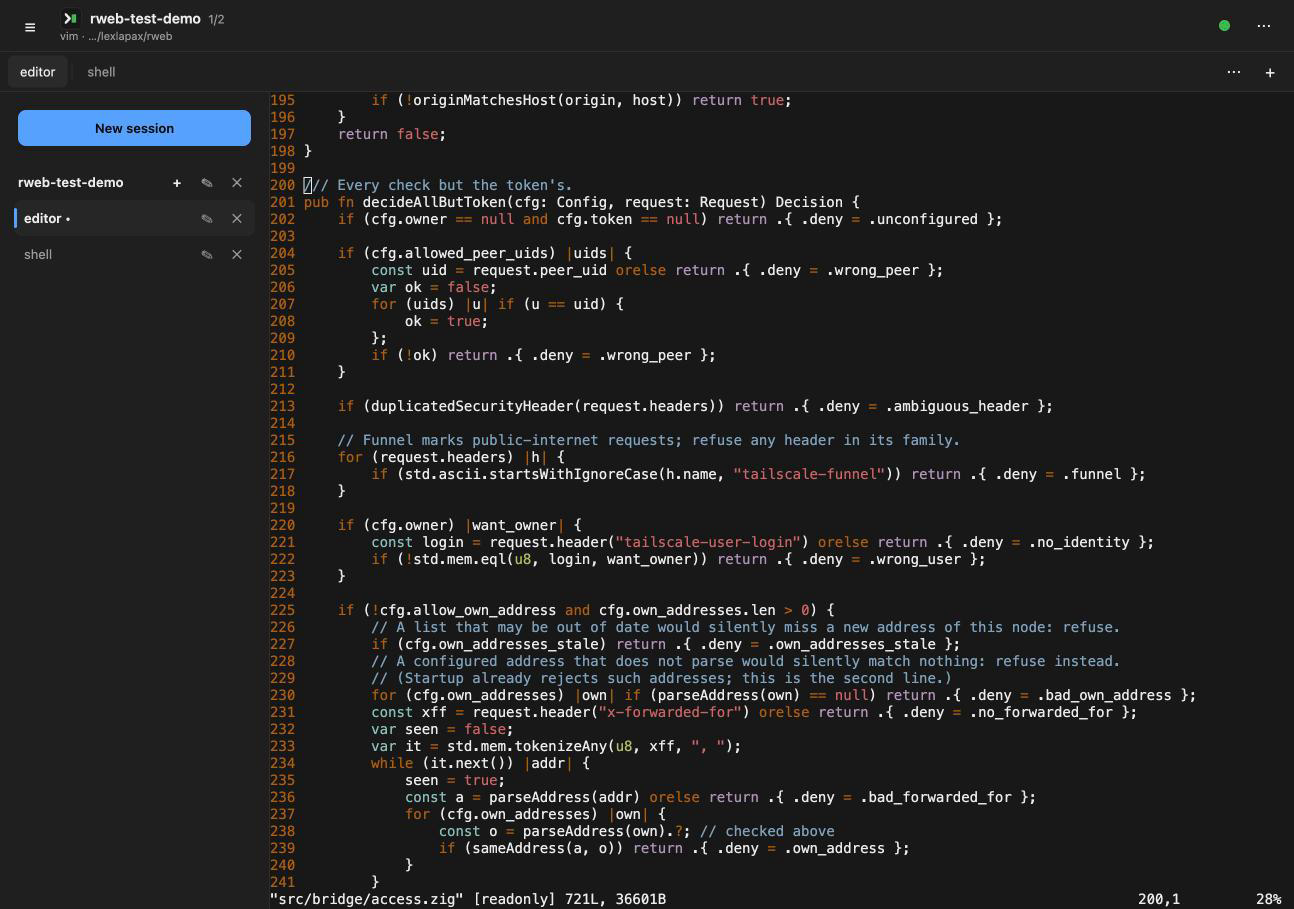
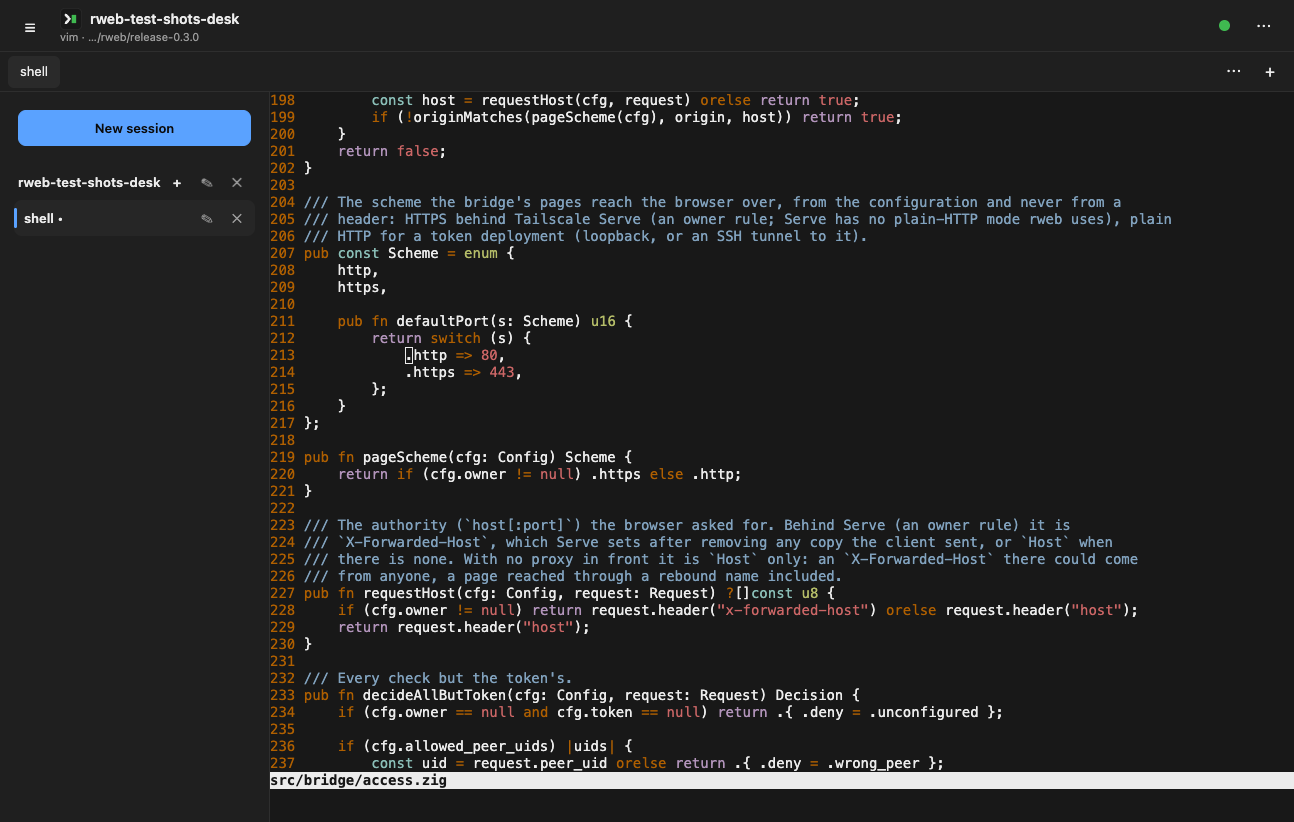
docs: every current document checked against the code for 0.3.0: install methods, the menu, the protocol lists, troubleshooting, the bug form; new screenshots and one of the menu

diff --git a/docs/user-guide.md b/docs/user-guide.md
@@ -36,7 +36,8 @@ brew install rweb
 ```
 
 Then run `rweb tailscale` once in a terminal (section 5 or 6), and `brew services start rweb` keeps it
-running at login. The formula installs the release archive below, checked by its SHA-256.
+running at login (on Linux, also `sudo loginctl enable-linger "$USER"` to start it at boot). The formula
+installs the release archive below, checked by its SHA-256.
 
 **Arch Linux**, from the AUR: the package `rweb-bin`, with any AUR helper
 (`yay -S rweb-bin`). It installs `/usr/bin/rweb` and a systemd user unit, `rweb.service`, that runs
@@ -152,7 +153,11 @@ It prints the `sudo tailscale serve …` line to run once and the address to ope
 terminal, then open the address on your phone or laptop (from **another device**: a request from the Rex
 machine itself is refused, because any program there could make it). Stop rweb with Ctrl-C.
 
-To keep it running, a systemd user service, `~/.config/systemd/user/rweb.service`:
+To keep it running, a systemd user service. **From the AUR** it is installed already
+(`/usr/lib/systemd/user/rweb.service`, running `/usr/bin/rweb tailscale`): skip the file and run the
+commands below it. **With Homebrew**, `brew services start rweb` takes its place (and the `loginctl` line
+below still applies). **From the archive**, copy `contrib/systemd/rweb.service` from it to
+`~/.config/systemd/user/rweb.service`; it is this file:
 
 ```ini
 [Unit]
@@ -213,8 +218,10 @@ itself is never printed) and the address to open. Run that line in another termi
 request from the Rex machine itself is refused, because any program there could make it. Stop rweb with
 Ctrl-C. `--port N` chooses another loopback port.
 
-To keep it running, a LaunchAgent, `~/Library/LaunchAgents/local.rweb.plist` (replace `YOU` with your
-user name):
+To keep it running: **with Homebrew**, `brew services start rweb` (its log is
+`$(brew --prefix)/var/log/rweb.log`, where the Serve line and the address appear). **From the archive**, a LaunchAgent: copy
+`contrib/launchd/local.rweb.plist` from it to `~/Library/LaunchAgents/local.rweb.plist` and replace `YOU`
+with your user name. It is this file:
 
 ```xml
 <?xml version="1.0" encoding="UTF-8"?>
@@ -278,7 +285,9 @@ holds the port, ssh then stops with an error instead of running without a tunnel
 prints another laptop port. On a phone, use an SSH app that can forward a local port to a remote unix
 socket, and keep it open while you use the page.
 
-To keep rweb running, use the service file from section 5 or 6 with `ssh` in place of `tailscale`.
+To keep rweb running, use the service file from section 5 or 6 with `ssh` in place of `tailscale`. The
+Homebrew and AUR services run `rweb tailscale`; for a tunnel, write that file yourself (on Linux,
+`systemctl --user edit --full rweb` makes a copy of the AUR unit to change).
 
 **Signing in.** Open `http://127.0.0.1:7700/` (use `127.0.0.1`, not `localhost`). The page shows a token
 form. On the Rex machine, `cat` the token file rweb named at startup (`~/.config/rweb/token` unless you
@@ -343,12 +352,15 @@ each has its own token and its own sign-in, and each `/s/<id>/` address is as se
 - **Size.** Rex owns the terminal's size, and every client shares it. On a touch screen the page asks Rex
   to fit the terminal to your screen ("Fit Rex to this screen" in the ⋯ menu); elsewhere it shrinks the
   text to fit instead. **+/−** in the ⋯ menu changes the text size.
-- **The ⋯ menu** (top right): text size; View only (no typing from this browser); Fit Rex to this screen;
-  Fit terminal to this window; Load all scrollback; Copy text (a view for selecting and copying lines);
-  Text copied in the terminal (what a program put on the clipboard); Paste; Clear screen; Reset terminal;
-  Download a file and Upload files (when enabled); the terminal engine (wterm, or the older xterm.js);
-  Touch diagnostics; Reconnect; About rweb (rweb's page on GitHub, in a new tab, as the logo at the top
-  left also opens; no address of your page is sent with it). The logo turns slowly while the terminal
+- **The ⋯ menu** (top right): Copy text (a view for selecting and copying lines); Text copied in the
+  terminal (what a program put on the clipboard); Paste; Download a file and Upload files (when enabled);
+  Clear screen; Reset terminal; text size **−/+**; View only (no typing from this browser); Fit Rex to this
+  screen; Use Rex colours (with wterm, Rex's colour theme in place of the page's own; xterm.js always uses Rex's); Fit terminal to this window;
+  Load all scrollback; Touch diagnostics; the terminal engine (wterm, or the older xterm.js); Reconnect;
+  "rweb X.Y.Z is available" when a newer release is out (the ⋯ button then has a dot; the item opens the
+  release notes, section 11); About rweb (rweb's page on GitHub, in a new tab, as the logo at the top
+  left also opens; no address of your page is sent with it).
+  [The menu in a desktop browser](../assets/screenshots/menu.png). The logo turns slowly while the terminal
   on screen is printing and comes to rest upright a moment after it stops; it stays still if your
   device asks for reduced motion.
 - **Pasting.** A paste reaches the program as a paste, without escape characters, so pasted text cannot
@@ -385,12 +397,19 @@ read; it follows no redirect). When a newer version is out it says so once in it
 item, "rweb X.Y.Z is available", that opens the release notes, and `rweb doctor` reports it with the
 upgrade command for how rweb was installed. It never downloads or installs anything. What GitHub learns
 from it: this machine's address, that it runs rweb, and which version. To turn it off, start rweb with
-`--no-update-check` (add it to `ExecStart`, the LaunchAgent's `ProgramArguments`, or, with Homebrew, run
-rweb from your own service instead of `brew services`).
+`--no-update-check`: add it to `ExecStart` or the LaunchAgent's `ProgramArguments`; for the AUR unit,
+`systemctl --user edit --full rweb`; with Homebrew, run rweb from your own service (section 5 or 6)
+instead of `brew services`.
 
-Read [CHANGELOG.md](../CHANGELOG.md), install the new archive over `~/.local/bin/rweb` (keep the old binary
-if you may want it back), then restart rweb: `systemctl --user restart rweb` on Linux,
-`launchctl kickstart -k "gui/$(id -u)/local.rweb"` on macOS. Restarting rweb does not touch your Rex
+To upgrade, read [CHANGELOG.md](../CHANGELOG.md), then:
+
+- **Homebrew:** `brew upgrade rweb && brew services restart rweb`.
+- **AUR:** upgrade `rweb-bin` with your helper (`yay -Syu rweb-bin`), then `systemctl --user restart rweb`.
+- **Archive:** install the new archive over `~/.local/bin/rweb` as in section 2, signature first (keep the
+  old binary if you may want it back), then `systemctl --user restart rweb` on Linux or
+  `launchctl kickstart -k "gui/$(id -u)/local.rweb"` on macOS.
+
+`rweb doctor` names the command for how this rweb was installed. Restarting rweb does not touch your Rex
 sessions; pages behind Tailscale reconnect by themselves, and a page through an SSH tunnel waits for a
 tap on Reconnect. The Serve entry, the secret and the token stay as they are.
 
@@ -479,7 +498,8 @@ rweb doctor: checking rweb tailscale (rweb 0.3.0)
 rweb doctor: 5 passed, 0 notes, 1 failed
 ```
 
-Logs: `journalctl --user -u rweb -n 50` (Linux service), `~/Library/Logs/rweb.log` (macOS LaunchAgent).
+Logs: `journalctl --user -u rweb -n 50` (Linux service, the AUR's included), `~/Library/Logs/rweb.log`
+(macOS LaunchAgent), `$(brew --prefix)/var/log/rweb.log` (`brew services`, on macOS and Linux).
 When rweb refuses to start, its message names what is wrong and, for a file or folder, ends with a
 `Fix:` line holding the command or change that puts it right. Run it and start rweb again; a second
 message means a second thing to fix.
@@ -515,6 +535,10 @@ message means a second thing to fix.
 | The browser cannot connect at all | Tailscale: `tailscale serve status` on the Rex machine. SSH: is the tunnel still open? |
 | Sessions do not appear | rweb cannot reach Rex, or Rex refused its API revision: check the log and `rweb --version`. |
 | Typing does nothing | View only is on (⋯ menu), or rweb runs with `--observe-only`. |
+| The page loads but never connects, and the log says `refused: bad Origin` | The page was opened at another address than the one rweb serves: over `http://` behind Tailscale, on another port, or through another name. Open the `https://` address `rweb tailscale` printed (or, for a tunnel, the `http://127.0.0.1:<port>/` one). |
+| A dot on the ⋯ button | A newer rweb is released: the ⋯ menu's "rweb X.Y.Z is available" opens its notes; section 11 says how to upgrade. |
+| `rweb doctor` notes `could not ask GitHub for rweb's latest release` | This machine could not reach `api.github.com` (offline, a proxy, a firewall). A note, not a failure; `--no-update-check` leaves the check out. |
+| `brew install rweb` will not load the formula | Homebrew loads a third-party tap's formulae only once the tap is trusted: `brew trust lexlapax/rweb`, then install again. |
 
 **Files and folders rweb checks.** The backend secret, the token file, the upload folder, the unix
 socket's folder and the `tailscale` program must be such that no other account could change them. The

diff --git a/README.md b/README.md
@@ -13,7 +13,7 @@ prompt that is waiting, run the quick command, and go. Not affiliated with Super
 <p align="center">
   <img src="assets/screenshots/desktop.png" alt="rweb in a desktop browser: the session list on the left and a terminal running vim" width="600">
   &nbsp;
-  <img src="assets/screenshots/phone.png" alt="rweb on a phone: a terminal with git log and ls output, and the key bar above the browser's address bar" width="200">
+  <img src="assets/screenshots/phone.png" alt="rweb on a phone: a terminal showing rweb --version and git log, and the key bar above the browser's address bar" width="200">
 </p>
 
 **Current release: 0.3.0** (2026-11-27). It installs from Homebrew and the AUR, checks a setup with
@@ -40,10 +40,13 @@ back at a real keyboard you use Rex itself.
 - Shows what each terminal is doing at a glance: the running program, its folder, listening ports and,
   where a program reports it, its status.
 - Phone and tablet friendly: key bar (Enter, Esc, Tab, ^C, Ctrl, Alt, Shift, arrows and more), touch
-  scrolling (also inside full-screen programs), a Copy view, a view-only switch.
+  scrolling (also inside full-screen programs), a Copy view, a view-only switch. The ⋯ menu holds the rest
+  ([picture](assets/screenshots/menu.png)).
 - Optional file transfer: download a file from the machine, upload into one folder (off by default).
 - Runs only for you: your own Tailscale login (every device you signed in to Tailscale as you), or a
   token. One rweb per machine: each machine with Rex runs its own rweb, at its own address.
+- Easy to keep right: `rweb doctor` checks a setup and says what to fix, and rweb tells you (in its log
+  and on the page) when a newer release is out. Install from Homebrew, the AUR or a signed archive.
 
 ## How it works
 
@@ -118,7 +121,7 @@ starting rweb at boot or login, several machines, using the page, upgrading and 
 rweb can do anything you can do in Rex, so it trusts no one but you. It listens only on a unix socket
 or on loopback, never on the network. Behind Tailscale it accepts only your Tailscale login and refuses
 requests from the public internet (Funnel), from the machine itself, for another host name, or a
-WebSocket opened by another site; "your login" covers every device you sign in to Tailscale as you, so keep
+WebSocket or upload from any page but its own (another site, a plain-HTTP page, another port); "your login" covers every device you sign in to Tailscale as you, so keep
 it on devices only you use. Behind an SSH tunnel it requires a long token and listens on a unix socket in
 a private folder, so no other account can take its place while it is down; the tunnel's local end is plain
 HTTP on loopback, which cannot prove who is answering, so use it only on devices nobody else uses. It never
@@ -131,7 +134,7 @@ change, and it bounds what every browser and Rex can make it hold in memory. Des
 [docs/security-hardening-2026-11-23.md](docs/security-hardening-2026-11-23.md) (in the source repository).
 
 **How it was reviewed.** Before its first release, rweb went through a security review of its design
-and then six rounds of review on its release candidate. Each round had three independent parts: an
+and then six rounds of review on its release candidate, and a seventh before 0.3.0. Each round had three independent parts: an
 external static security scan of the whole repository; a release-readiness review (builds, the test
 suite, the release archives, the docs against the code); and an internal adversarial review in several
 parts, each reviewer reading the code without the others' conclusions. In the first four rounds the
@@ -179,7 +182,7 @@ tools/release.sh [COMMIT]             # release archives: one commit's clean exp
 
 | | |
 | --- | --- |
-| [User guide](docs/user-guide.md) | Tailscale or SSH setup, run at boot, several machines, using the page, upgrade, troubleshooting |
+| [User guide](docs/user-guide.md) | Install (Homebrew, AUR, archive), Tailscale or SSH setup, run at boot, several machines, using the page, upgrade, troubleshooting with `rweb doctor`, every option |
 | [Architecture](docs/architecture.md) | Components, diagrams, data and input paths, access checks, source layout |
 | [Changelog](CHANGELOG.md) | What changed in each version |
 | [Licence](LICENSE) | MIT |
@@ -229,5 +232,6 @@ which it is built. The software it contains or serves keeps its own licences:
 
 rweb is in daily use on Linux and macOS. Rex is a preview: rweb pins the Rex API revisions it speaks
 (see `rweb --version`; 0.3.0 speaks 18 to 24, Rex 0.1.0-preview.21 to preview.25) and is tested against
-each Rex update. Release archives: macOS on Apple silicon,
-and Linux x86-64 (static, any distribution). Windows support will come later.
+each Rex update. Release archives, signed: macOS on Apple silicon,
+and Linux x86-64 (static, any distribution); the same through Homebrew (both) and the AUR (Arch Linux).
+Windows support will come later.

diff --git a/docs/architecture.md b/docs/architecture.md
@@ -45,6 +45,7 @@ flowchart TB
     HUB["hub.zig<br/>session tree, open terminals, viewers"]
     PAGE["assets.zig + web/<br/>the page, built in"]
     XF["xfer.zig<br/>file transfer (optional)"]
+    UPD["update.zig<br/>daily release check (optional)"]
     subgraph LIB["src/rex: Rex client library"]
       CTL["control.zig<br/>hello, calls, events, reconnect"]
       API["api.zig<br/>typed calls"]
@@ -58,6 +59,8 @@ flowchart TB
   SRV --> PAGE
   SRV <--> HUB
   SRV --> XF
+  UPD -- "newer release" --> HUB
+  UPD -- "HTTPS, once a day" --> GH["GitHub's latest-release API"]
   HUB --> API --> CTL
   HUB --> DATA --> MIR
   HUB --> IN --> CTL
@@ -271,9 +274,11 @@ mouse-wheel reports (or ↑/↓ keys if the program did not ask for the mouse).
 WebSocket at `/ws`. JSON text frames carry commands and notices; binary frames carry terminal output.
 Browser to rweb: `tree`, `open`, `close_view`, `in`, `key`, `paste`, `fit`, `redraw`, `more_history`,
 `text`, `info`, `clip`, `observe`, `new_session`, `new_terminal`, `rename_session`, `rename_block`,
-`close_block`, `destroy_session`, `term_action`, transfer requests, `ping`. rweb to browser: `tree`,
-`opened`, `size`, `theme`, `exited`, `closed`, `mode`, `info`, `notice`, `error`, `pong`. Every message
-is bounded and validated; the full list is at the top of `src/bridge/protocol.zig`.
+`close_block`, `destroy_session`, `term_action`, transfer requests (`ls`, `dl`, `ul`), `ping`, and `dbg`
+(keyboard diagnostics, logged only with `--debug-input`). rweb to browser: `tree`, `opened`, `theme`, `exited`, `closed`, `mode` (what
+this page may do, and `update`, a newer release), `rex` (Rex up or down), `info`, `text`, `clip`, `ls`,
+`xfer`, `notice`, `error`, `pong`; a resize reaches the page as a fresh redraw. Every message is bounded
+and validated; the full list is at the top of `src/bridge/protocol.zig`.
 
 ## Source layout
 
@@ -285,8 +290,8 @@ is bounded and validated; the full list is at the top of `src/bridge/protocol.zi
 | `src/fuzz.zig` | Fuzz targets for every parser that reads outside bytes (`zig build fuzz --fuzz`) |
 | `tests/web/` | Tests for the page's logic (`zig build web-test`) |
 | `assets/logo/` | The logo's SVG sources, the social preview and `build.sh`, which exports the rasters (the page's icons are in `src/bridge/web/icons/`) |
-| `assets/screenshots/` | The README's screenshots (also in the release archives) |
-| `tools/` | `dist.sh` and `release.sh` (release archives, signed; `release-base.test.sh` checks its folder rules; `release-signers` holds the release key), `packaging.sh` (the Homebrew formula and AUR package from a release), `vendor/` (rebuilds the vendored browser code), `notices.py` (third-party notices) |
+| `assets/screenshots/` | The README's and the user guide's screenshots (also in the release archives) |
+| `tools/` | `dist.sh` and `release.sh` (release archives, signed; `release-base.test.sh` checks its folder rules; `release-signers` holds the release key), `packaging.sh` (the Homebrew formula and AUR package from a release), `vendor/` (rebuilds the vendored browser code), `assetgen.zig` (the page's table, ETags and gzip bodies, run by the build), `notices.py` (third-party notices; `licenses/` holds licence texts a package does not ship) |
 | `packaging/`, `contrib/` | The Homebrew formula and AUR templates; the systemd unit and LaunchAgent shipped in the archive |
 
 ## Pinned dependencies
@@ -296,7 +301,7 @@ is bounded and validated; the full list is at the top of `src/bridge/protocol.zi
 | Zig | 0.17.1 | Builds everything, including Ghostty's C++ |
 | libghostty-vt | Ghostty tag `vt-1.0.1` (by hash in `build.zig.zon`) | Decodes Rex's snapshot format; rweb refuses an unknown snapshot version |
 | Rex API | revisions 18–24 (Rex 0.1.0-preview.25 speaks 0–24) | Rex refuses clients outside its supported range |
-| wterm, xterm.js | 0.6.0, 6.0.0 (checksums in `vendor/SHA256SUMS`, checked by a test) | The browser terminals |
+| wterm, xterm.js | wterm 0.6.0, xterm.js 6.0.0 with `@xterm/addon-fit` 0.11.0 (checksums in `vendor/SHA256SUMS`, checked by a test; rebuilt byte for byte from npm by `tools/vendor/rebuild.sh`) | The browser terminals |
 
 ## Further reading (in the source repository)
 
@@ -305,3 +310,6 @@ is bounded and validated; the full list is at the top of `src/bridge/protocol.zi
 - [design-research.md](design-research.md), [rex-web-research.md](rex-web-research.md): the evidence behind the design.
 - [security-hardening-2026-11-23.md](security-hardening-2026-11-23.md): the security review and fixes.
 - [file-transfer.md](file-transfer.md): file transfer design and limits.
+- [vendored-browser-code.md](vendored-browser-code.md): where each vendored browser file comes from.
+- [The security review rounds](README.md), the latest
+  [round 7](security-review-2026-11-27-round7.md).

diff --git a/docs/README.md b/docs/README.md
@@ -2,8 +2,9 @@
 
 ## Using rweb
 
-- [User guide](user-guide.md): install (an archive, Homebrew or the AUR, with the signature checked); reach it through Tailscale or an SSH tunnel; run it at boot or
-  login on Linux and macOS; several machines; using the page; file transfer; upgrade, stop or remove;
+- [User guide](user-guide.md): install (an archive with its signature checked, Homebrew or the AUR); reach
+  it through Tailscale or an SSH tunnel; run it at boot or login on Linux and macOS; several machines;
+  using the page; file transfer; knowing when to upgrade, upgrading, stopping or removing it;
   troubleshooting with `rweb doctor`; every option.
 - [Changelog](../CHANGELOG.md): what changed in each version.
 - [Licence](../LICENSE): MIT.
@@ -16,11 +17,15 @@
 - [Architecture](architecture.md): components, diagrams, request checks, data and input paths, the
   browser protocol, source layout, pinned dependencies.
 - [File transfer](file-transfer.md): design, limits and threat model of the optional file transfer.
+- [Vendored browser code](vendored-browser-code.md): where each vendored file comes from and how
+  `tools/vendor/rebuild.sh` rebuilds them byte for byte.
+- [Packaging](../packaging/README.md): the Homebrew tap and the AUR package, and how each release
+  updates them.
 
 ## How it was reviewed
 
-Before the first release: a security review of the design, then six rounds on the release candidate,
-each with an external static security scan, a release-readiness review and an internal adversarial
+Before the first release: a security review of the design, then six rounds on the release candidate;
+a seventh before 0.3.0. Each round had an external static security scan, a release-readiness review and an internal adversarial
 review in several parts. Every finding was checked against the code, and every fix has a test. Before
 each release the candidate is run live on macOS and Linux and tested from the simulators and a phone;
 the round's document records those runs.
@@ -44,10 +49,6 @@ the round's document records those runs.
   Origin compared on scheme and port, redirects refused.
 - [Zig idiom audit](zig-idiom-audit-2026-11-26.md): the code against Zig's own practice, a 38-item
   checklist, and Phase B, done in 0.2.0 and after.
-- [Vendored browser code](vendored-browser-code.md): where each vendored file comes from and how
-  `tools/vendor/rebuild.sh` rebuilds them byte for byte.
-- [Packaging](../packaging/README.md): the Homebrew tap and the AUR package, and how each release
-  updates them.
 
 ## Why it is built this way
 

diff --git a/assets/screenshots/README.md b/assets/screenshots/README.md
@@ -1,14 +1,17 @@
 # Screenshots
 
-Shown in the top-level README.
+Shown in the top-level README and the user guide, and shipped in the release archives.
 
-- `desktop.png`: desktop Chrome, a terminal running vim on `src/bridge/access.zig` (1294 × 909, the
-  page area only, so no address bar).
-- `phone.png`: Mobile Safari on an iPhone simulator, a terminal with `git log` and `ls`, the key bar
-  at the bottom (1206 × 2622). The address in Safari's bar is blurred.
+- `desktop.png`: a desktop browser, the session list and a terminal running vim on
+  `src/bridge/access.zig` (1294 × 822, the page area only, so no address bar).
+- `phone.png`: Mobile Safari on an iPhone simulator, a terminal showing `rweb --version` and `git log`,
+  the key bar above Safari's address bar (1206 × 2622).
+- `menu.png`: the same desktop page with the ⋯ menu open (1294 × 822).
 
-How they were made (2026-11-26): rweb 0.1.1 behind Tailscale Serve on a Linux host, opened from another
-machine, on a throwaway Rex session running plain `bash` with a neutral prompt in an rweb checkout, so
-no personal session, host name or prompt appears. In the desktop shot only that session is listed (the
-page's list was narrowed in the browser for the picture; nothing else differs from the real page). The
-phone's status bar is the simulator's standard 9:41.
+How they were made (2026-11-27, rweb 0.3.0): a test bridge on `127.0.0.1` with a random token (the
+page is the same as behind Tailscale Serve), on two throwaway Rex sessions running plain `bash` with a
+neutral prompt in an rweb checkout, so no personal session, host name or prompt appears. The desktop
+shots come from headless Chrome, driven over a loopback debugging port; in them only the test session is
+listed (the page's list was narrowed in that browser for the picture; nothing else differs from the real
+page). The phone shot is the simulator's own screenshot, with the simulator's status bar and its
+metadata removed. The sessions, the bridge and the token were removed afterwards.

diff --git a/agent-context-map.md b/agent-context-map.md
@@ -25,6 +25,18 @@ a 4-second `echo` loop, upright again after it.
 
 ## Where things stand (2026-11-27)
 
+- **0.3.0 docs pass (owner, 2026-11-27: every current document checked one by one for correctness, not
+  only versions):** README (features, security wording for the stricter Origin, seven rounds, docs table,
+  status), user guide (each install method's service, upgrade, logs, removal; the ⋯ menu as the page has
+  it; troubleshooting rows for the update check, doctor, bad Origin and `brew trust`), architecture
+  (update check in the diagram; the protocol lists corrected: no `size`, plus `rex`, `text`, `clip`, `ls`,
+  `xfer`, `dbg`; pins; tools; further reading), docs index, packaging, CONTRIBUTING, the bug form
+  (install method, doctor output, Homebrew log), vendored-code doc, protocol.zig's header. Dated records
+  (phase results, review rounds) left as written. **Screenshots replaced** (desktop, phone) and one added
+  (`menu.png`), made on laptop-mac from a 127.0.0.1 token bridge, headless Chrome over a loopback
+  debugging port and the iPhone simulator (terminal restored by writing the page's `rweb.last` into the
+  simulator Safari's storage for that origin, since UI scripting timed out); throwaway sessions
+  `rweb-test-shots-*`, bridge, token and simulator all removed or stopped; `dist.sh` ships `menu.png`.
 - **0.3.0, release commit** (version, CHANGELOG heading and summary, README "Current release", the guide's
   "Upgrading to 0.3.0", the doctor sample, "from 0.3.0 on are signed", PLAN Phase 6; docs swept for stale
   version and status wording; Rex on laptop-mac and linux-box is 0.1.0-preview.25, API revision 24, so the

diff --git a/packaging/README.md b/packaging/README.md
@@ -13,9 +13,13 @@ At a release, after `tools/release.sh` and the GitHub Release:
 1. `tools/packaging.sh VERSION` checks the signature on `zig-out/release/VERSION/SHA256SUMS` and writes
    `zig-out/release/VERSION/packaging/homebrew/rweb.rb` and `.../aur/PKGBUILD` with `.../aur/rweb.service`
    (the package's systemd user unit, a source of its own as AUR packages keep them, so it does not depend
-   on what the archive carries).
+   on what the archive carries). Lines starting `#: ` describe a template and are left out. The script
+   stops on any failed step and checks what it wrote (the formula's class, the version, every SHA-256)
+   before it says it made them.
 2. Homebrew: copy `rweb.rb` to the tap's `Formula/rweb.rb`, then `brew style` and `brew audit --strict` on
-   it from the tap, and commit and push the tap.
+   it from the tap, and commit and push the tap. The formula installs the binary, the README, the
+   changelog, the third-party notices and the docs (under `docs/`, where the README links them), and a
+   `brew services` entry that runs `rweb tailscale`.
 3. AUR: on an Arch machine, in a clone of the `rweb-bin` AUR repository, copy `PKGBUILD` and `rweb.service`, run `makepkg -f`
    (builds without installing) and `makepkg --printsrcinfo > .SRCINFO`, then commit and push.
 

diff --git a/CHANGELOG.md b/CHANGELOG.md
@@ -34,6 +34,11 @@ and restart rweb. The update check is on by default; `--no-update-check` turns i
   each file is byte-identical; all are. Where each comes from: `docs/vendored-browser-code.md`.
 - Building: the page's files are compressed and given their validators at build time, not on the first
   request.
+- Docs: the user guide gives each way of installing its own service, upgrade, log and removal steps
+  (Homebrew, the AUR, the archive, whose `contrib/` files are the guide's services), lists the ⋯ menu
+  as the page has it, and adds troubleshooting for the update check, `rweb doctor` and the stricter
+  origin check. The bug report form asks how rweb was installed and for `rweb doctor`'s output. New screenshots
+  of 0.3.0, and a third of the ⋯ menu (`assets/screenshots/`, also in the archives).
 
 From the seventh review (details: `docs/security-review-2026-11-27-round7.md`, in the source repository):
 

diff --git a/docs/vendored-browser-code.md b/docs/vendored-browser-code.md
@@ -55,7 +55,7 @@ module. Rebuilding it from source needs the wterm repository at the commit of `@
 the Ghostty commit it was built against; that was not attempted. What is checked is that the file is
 byte-identical to the one in the published package, which the registry's integrity covers.
 
-Run again 2026-11-27 in that sandbox (Linux, ARM64): every package verified against the lock and the
+Run again 2026-11-27 in the owner's sandbox (Linux, ARM64): every package verified against the lock and the
 registry, all eight files identical. `@esbuild/linux-arm64`'s integrity came from that run, matched the
 registry's, and was recorded at the owner's word.
 

diff --git a/CONTRIBUTING.md b/CONTRIBUTING.md
@@ -6,5 +6,5 @@ rweb and improve it under its [MIT licence](LICENSE); when the author sees chang
 help, they may be merged, reworked or brought in some other way.
 
 Issues are for bug reports only, through the bug report form (it asks for `rweb --version`, the Rex
-version and how rweb is reached). Feature requests are not tracked. The maintainer's address is in the
+version, how rweb was installed and is reached, and optionally `rweb doctor`'s output). Feature requests are not tracked. The maintainer's address is in the
 README.
